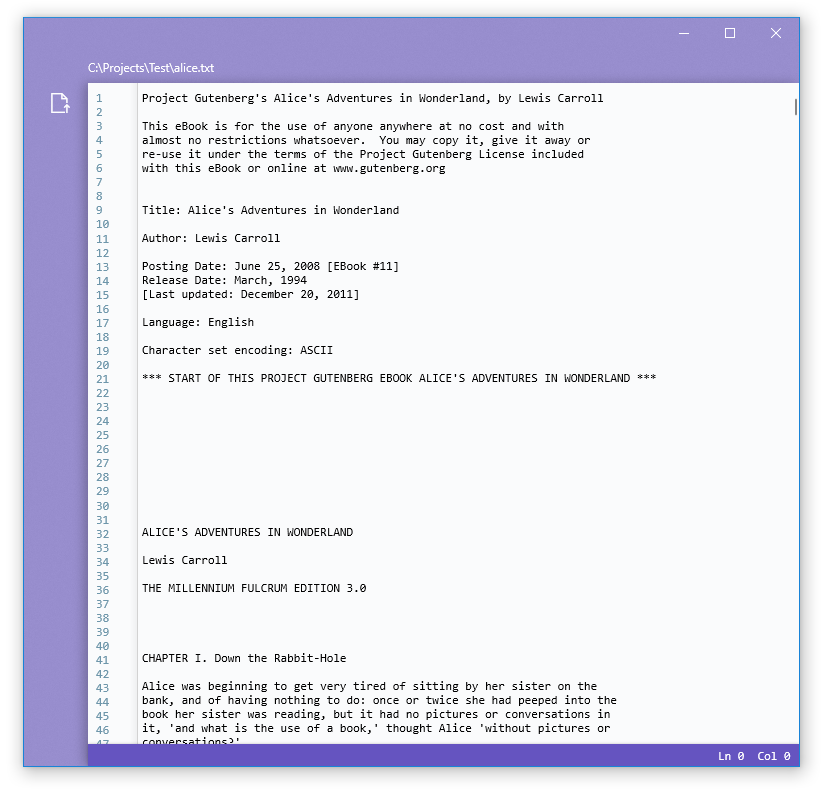
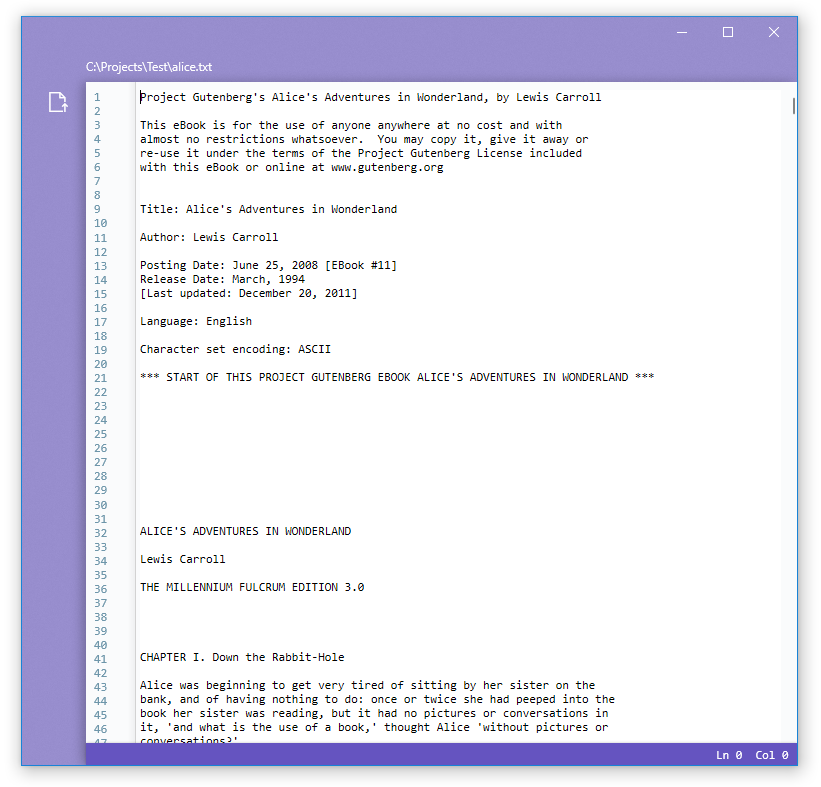
Added Cleartype

Changed region(s): [[0.0, 0.0305, 0.9744, 0.9759], [0.944, 0.0915, 0.9744, 0.1525], [0.944, 0.0305, 0.9744, 0.061]]

diff --git a/XiUWP/ViewModel/TextViewModel.cs b/XiUWP/ViewModel/TextViewModel.cs
@@ -124,7 +124,8 @@ namespace XiUWP.ViewModel
             _textFormat.FontFamily = "Consolas";
             _textFormat.FontSize = 12;
             _textFormat.WordWrapping = CanvasWordWrapping.NoWrap; //Xi handles this for us
-            
+            _textFormat.Options = CanvasDrawTextOptions.EnableColorFont;
+
             _xiService = new XIService();
             _xiService.UpdateObservable.Subscribe(update => UpdateTextView(update.Update));
             _xiService.ScrollToObservable.Subscribe(async scrollTo => await ScrollToLine(scrollTo));
@@ -511,8 +512,10 @@ namespace XiUWP.ViewModel
 
         private void _rootCanvas_Draw(CanvasControl sender, CanvasDrawEventArgs args)
         {
+            args.DrawingSession.Clear(Windows.UI.Colors.White);
+            args.DrawingSession.TextAntialiasing = CanvasTextAntialiasing.ClearType;
+
             int yOffset = 0;
-          
             for (int i = _firstVisibleLine; i < Math.Min(_lastVisibleLine, _lines.Count); i++)
             {
                 if (_lines[i].TextLayout == null)
